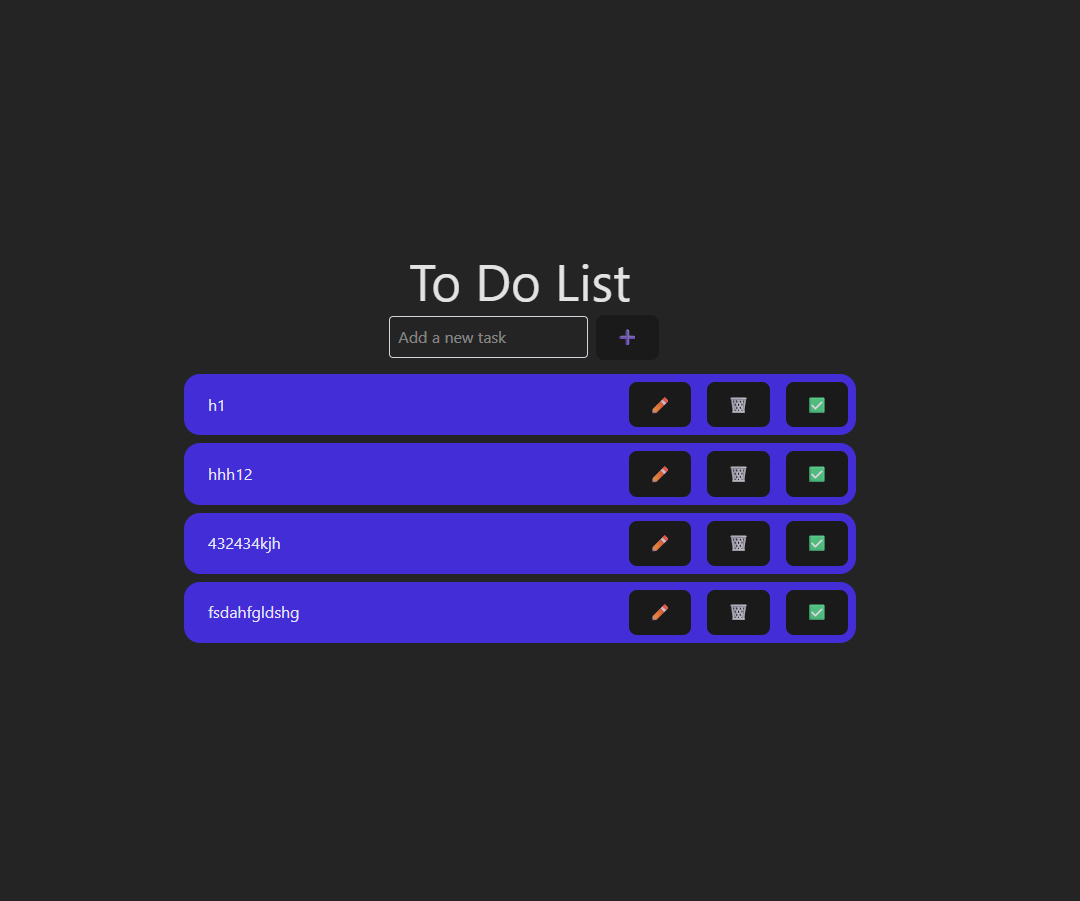
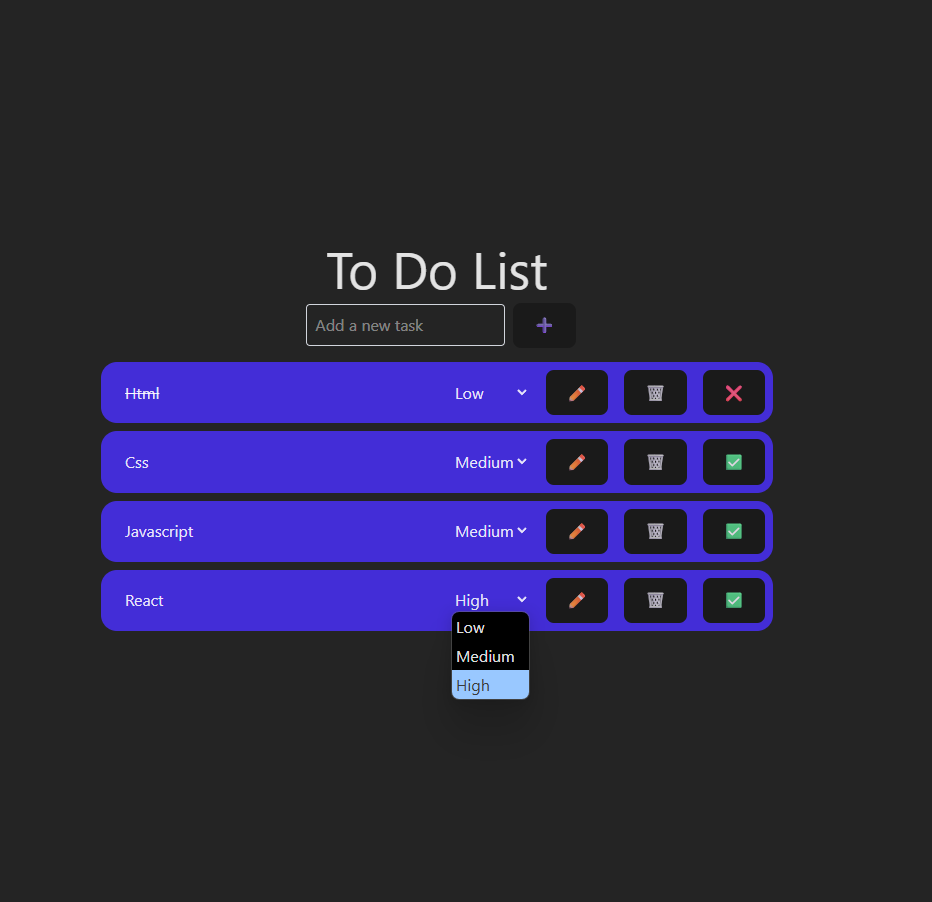
new

Changed region(s): [[0.0933, 0.2797, 0.8401, 0.7769]]

diff --git a/src/App.jsx b/src/App.jsx
@@ -7,6 +7,7 @@ function App() {
     return storedTodos ? JSON.parse(storedTodos) : [];
   });
   const [inputValue, setInputValue] = useState("");
+  const priority = ["Low", "Medium", "High"];
   
 
   // --------------------------- HANDLERS ---------------------------
@@ -14,6 +15,9 @@ function App() {
   const handleAddTodo = () => {
     if (inputValue.trim() === "") return;
     setTodos([...todos, { text: inputValue, completed: false }]);
+
+    setTodos([...todos, { text: inputValue, completed: false, priority}]);
+
     setInputValue("");
   };
 
@@ -32,6 +36,14 @@ function App() {
       );
       setTodos(updatedTodos);
     }
+  };
+
+  // Change todo priority
+  const handleChangePriority = (index, newPriority) => {
+    const updatedTodos = todos.map((todo, i) =>
+      i === index ? { ...todo, priority: newPriority } : todo
+    );
+    setTodos(updatedTodos);
   }
 
   // Toggle todo completion
@@ -88,9 +100,23 @@ function App() {
               }}
               className="rounded-2xl mb-2 bg-indigo-700"
             >
-              <span className="ml-6">{todo.text}</span>
+              <span className="ml-6">
+                {todo.text}
+              </span>
               {/* ------------------------buttons ------------------------- */}
               <div className="">
+                <select
+                  value={todo.priority}
+                  onChange={(e) => handleChangePriority(index, e.target.value)}
+                  className="m-2">
+                    {priority.map((p) => (
+                      <option key={p} value={p} style={{
+                        backgroundColor: "black"
+                      }}>
+                        {p}
+                      </option>
+                    ))}
+                  </select>
                 <button onClick={() => handleEditTodo(index)} className="m-2">
                   ✏
                 </button>
